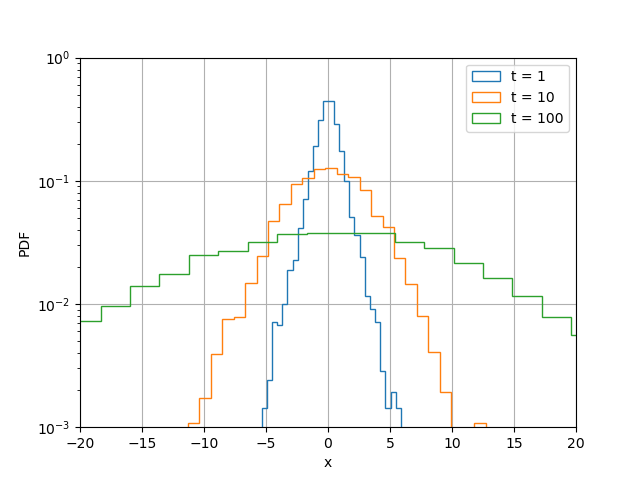
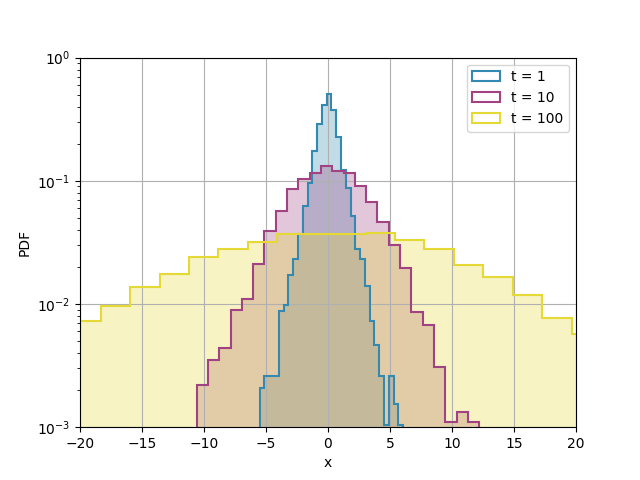
Fix example 6 on docs

diff --git a/docs/source/examples/example6.rst b/docs/source/examples/example6.rst
@@ -33,7 +33,8 @@ Import all the dependencies:
 .. code-block:: python
 
    import numpy as np
-   import matplotlib.pyplot as plt
+   from yupi.stats import collect_at
+   from yupi.graphics import plot_hists
    from yupi.generators import DiffDiffGenerator
 
 Fix the random generator seed to make results reproducible:
@@ -58,12 +59,11 @@ Simulation parameters:
    dt = .1    # Time step
 
 
-Definition of key time instants:
+Definition of time instants:
 
 .. code-block:: python
 
-   delta_t = np.array([1, 10, 100])   # Time instants
-   steps = np.int32(delta_t / dt)     # Same but in steps of the simulation
+   time_instants = np.array([1, 10, 100])   # Time instants
 
 
 .. _Generating trajectories 6:
@@ -90,24 +90,24 @@ time instants:
 
 .. code-block:: python
 
-   r = [[traj.r.x[step] for traj in trajs] for step in steps]
+   r = [collect_at(trajs, 'rx', t, step_as_time=True) for t in time_instants]
 
 
 Then, we can plot the results:
 
 .. code-block:: python
 
-   for r_, delta_t_ in zip(r, delta_t):
-      plt.hist(r_, bins=30, density=True, histtype='step',
-               label=f't = {delta_t_}')
-   plt.legend()
-   plt.grid(True)
-   plt.ylim(1e-3, 1)
-   plt.xlim(-20, 20)
-   plt.yscale('log')
-   plt.xlabel('x')
-   plt.ylabel('PDF')
-   plt.show()
+   plot_hists(r, bins=30, density=True,
+      labels=[f't = {dt}' for dt in time_instants],
+      xlabel='x',
+      ylabel='PDF',
+      legend=True,
+      grid=True,
+      yscale='log',
+      ylim=(1e-3, 1),
+      xlim=(-20, 20),
+      filled=True
+   )
 
 .. figure:: /images/example6.png
    :alt: Output of example6
